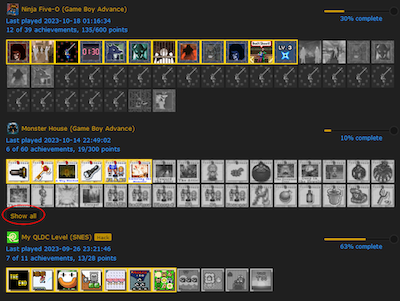
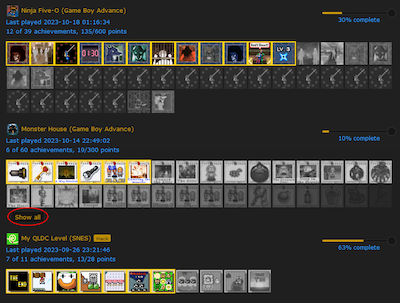
RA_HideProfileAchievementsBadges: adds a transparency gradient to last visible badges + update documentation

diff --git a/RA_HideProfileAchievementsBadges.user.js b/RA_HideProfileAchievementsBadges.user.js
@@ -1,7 +1,7 @@
 // ==UserScript==
 // @name         RA_HideProfileAchievementsBadges
 // @namespace    RA
-// @version      0.2
+// @version      0.3
 // @description  Hides achievements badges on profile page
 // @author       Mindhral
 // @homepage     https://github.com/Mindhral/RA_userscripts
@@ -16,7 +16,8 @@
 const PropertyPrefix = 'HideProfileAchievementsBadges.';
 const Settings = {
     maxBadgesCount: GM_getValue(PropertyPrefix + 'maxBadgesCount', 48),
-    showBadgesCount: GM_getValue(PropertyPrefix + 'showBadgesCount', 32)
+    showBadgesCount: GM_getValue(PropertyPrefix + 'showBadgesCount', 32),
+    opacityGradientCount: GM_getValue(PropertyPrefix + 'opacityGradientCount', 16)
 };
 
 function newElement(tagName, parent, className = null, innerHTML = null) {
@@ -51,12 +52,22 @@ function settingsPage() {
 
     const shownBadgesLine = newElement('tr', tbody);
     newElement('td', shownBadgesLine, null, 'Number of badges always displayed');
-    const shownBadgesCell = newElement('td',shownBadgesLine);
+    const shownBadgesCell = newElement('td', shownBadgesLine);
     const shownBadgesInput = newElement('input', shownBadgesCell);
     shownBadgesInput.type = 'number';
     shownBadgesInput.value = Settings.showBadgesCount;
-    shownBadgesInput.min = 0;
+    shownBadgesInput.min = Settings.opacityGradientCount;
     shownBadgesInput.style.width = '7em';
+
+    const opacityGradientLine = newElement('tr', tbody);
+    newElement('td', opacityGradientLine, null, 'Number of badges in the transparency gradient');
+    const opacityGradientCell = newElement('td', opacityGradientLine);
+    const opacityGradientInput = newElement('input', opacityGradientCell);
+    opacityGradientInput.type = 'number';
+    opacityGradientInput.value = Settings.opacityGradientCount;
+    opacityGradientInput.min = 0;
+    opacityGradientInput.max = Settings.showBadgesCount;
+    opacityGradientInput.style.width = '7em';
 
     maxBadgesInput.addEventListener('input', () => {
         if (!maxBadgesInput.reportValidity()) return;
@@ -64,7 +75,13 @@ function settingsPage() {
     });
     shownBadgesInput.addEventListener('input', () => {
         if (!shownBadgesInput.reportValidity()) return;
+        opacityGradientInput.max = shownBadgesInput.value;
         GM_setValue(PropertyPrefix + 'showBadgesCount', parseInt(shownBadgesInput.value));
+    });
+    opacityGradientInput.addEventListener('input', () => {
+        if (!opacityGradientInput.reportValidity()) return;
+        shownBadgesInput.min = opacityGradientInput.value;
+        GM_setValue(PropertyPrefix + 'opacityGradientCount', parseInt(opacityGradientInput.value));
     });
 }
 
@@ -72,8 +89,11 @@ function profilePage() {
     const badgeContainers = document.querySelectorAll('div.recentlyplayed > div:nth-of-type(2n)');
     badgeContainers.forEach(div => {
         if (div.children.length <= Settings.maxBadgesCount) return;
-        for (let i=Settings.showBadgesCount; i < div.children.length; i++) {
+        for (let i = Settings.showBadgesCount; i < div.children.length; i++) {
             div.children[i].classList.add('hidden')
+        }
+        for (let i = 1; i <= Settings.opacityGradientCount; i++) {
+            div.children[Settings.showBadgesCount - i].style.opacity = i / (Settings.opacityGradientCount + 1);
         }
         const showButton = document.createElement('button');
         showButton.className='btn'
@@ -83,8 +103,11 @@ function profilePage() {
         div.append(showButton)
         showButton.addEventListener('click', () => {
             showButton.remove()
-            for (let i=Settings.showBadgesCount; i < div.children.length; i++) {
+            for (let i = Settings.showBadgesCount; i < div.children.length; i++) {
                 div.children[i].classList.remove('hidden')
+            }
+            for (let i = 1; i <= Settings.opacityGradientCount; i++) {
+                div.children[Settings.showBadgesCount - i].style.opacity = null;
             }
         });
     });

diff --git a/README.md b/README.md
@@ -87,10 +87,11 @@ The number of badges and the height which trigger the scroll bar apparition can 
 ## RA_HideProfileAchievementsBadges
 
 On profile page, in *Last [n] games played* section, if a game has more than 48 badges (3 lines in wide layout), this scripts only shows the first 32 badges (2 lines) and adds a button to show the others.
+A transparency gradient is set on the last 16 badges (last line).
 
 ![some badges hidden and button displayed](/assets/HideProfileAchievementsBadges_button.png) ![all badges displayed](/assets/HideProfileAchievementsBadges_clicked.png)
 
-Both numbers of badges can be adjusted in a dedicated section on *Settings* page[^1].
+All 3 numbers of badges can be adjusted in a dedicated section on *Settings* page[^1].
 
 ![hide achievements badges settings](/assets/HideProfileAchievementsBadges_settings.png)
 
